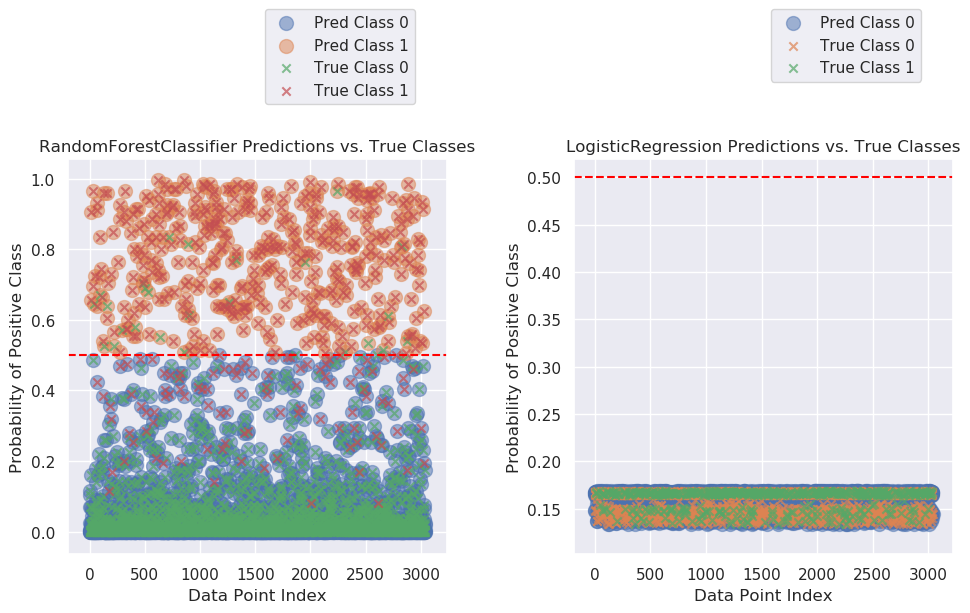
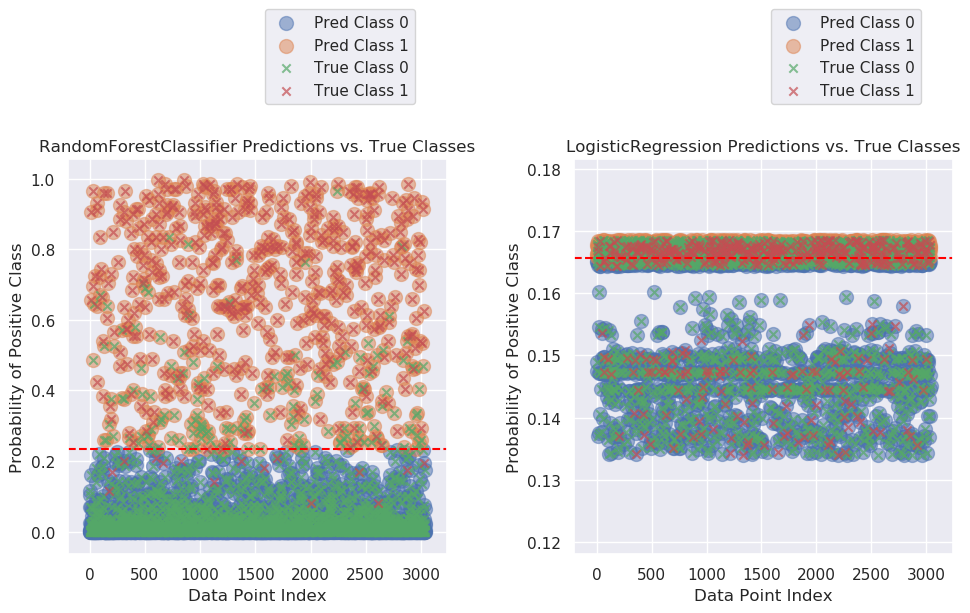
use the best threshold based on ROC analysis

diff --git a/proj1_cutomer_churn/churn_library_class.py b/proj1_cutomer_churn/churn_library_class.py
@@ -5,7 +5,7 @@ import argparse
 import logging
 import os
 import seaborn as sns
-from sklearn.metrics import plot_roc_curve, classification_report
+from sklearn.metrics import plot_roc_curve, roc_curve, classification_report
 from sklearn.model_selection import GridSearchCV
 from sklearn.ensemble import RandomForestClassifier
 from sklearn.linear_model import LogisticRegression
@@ -65,6 +65,7 @@ class ChurnLibrary:
         self.cv_rfc = None  # models to be trained later
         self.rfc_best = None  # the best estimator within cv_rfc
         self.lrc = None  # models to be trained later
+        self.best_threshold = []  # the best threshold for each class [0: rfc, 1: lrc]
 
     def perform_eda(self):
         """
@@ -164,14 +165,14 @@ class ChurnLibrary:
         ax.text(
             0.01, 0.05, str(
                 classification_report(
-                    self.y_test, y_test_pred, zero_division=1)), {
+                    self.y_test, y_test_pred, zero_division=0)), {
                 'fontsize': 10}, fontproperties='monospace')
         ax.text(0.01, 0.6, f'{model_name} Test', {
                 'fontsize': 10}, fontproperties='monospace')
         ax.text(
             0.01, 0.7, str(
                 classification_report(
-                    self.y_train, y_train_pred, zero_division=1)), {
+                    self.y_train, y_train_pred, zero_division=0)), {
                 'fontsize': 10}, fontproperties='monospace')
         ax.axis('off')  # Turn off axis
 
@@ -288,8 +289,14 @@ class ChurnLibrary:
         for i, model in enumerate(models):
             ax = axes[i] if num_models > 1 else axes  # Select subplot
 
-            # Make predictions on test data
-            y_pred = model.predict(self.X_test)
+            # Set your custom threshold
+            custom_threshold = self.best_threshold[i]  # Example threshold
+
+            # Get the predicted probabilities for the test set
+            probabilities = model.predict_proba(self.X_test)
+
+            # Get the predictions based on the custom threshold
+            y_pred = (probabilities[:, 1] >= custom_threshold).astype(int)
 
             # Plot scatter plot for each class based on predicted labels
             for label in range(num_classes):
@@ -306,7 +313,7 @@ class ChurnLibrary:
                                :, 1], marker='x', label=f'True Class {label}', alpha=0.7)
 
             # Add decision line based on threshold
-            ax.axhline(y=0.5, color='red', linestyle='--')
+            ax.axhline(y=custom_threshold, color='red', linestyle='--')
             ax.set_title(
                 f'{model.__class__.__name__} Predictions vs. True Classes')
             ax.set_xlabel('Data Point Index')
@@ -445,6 +452,22 @@ class ChurnLibrary:
             # save best model
             joblib.dump(self.rfc_best, './models/rfc_model.pkl')
             joblib.dump(self.lrc, './models/logistic_model.pkl')
+        
+        # get the best (most balanced) threshold based on ROC
+        y_test = self.y_test
+        for model in [self.rfc_best, self.lrc]:
+            # Get the true labels and predicted probabilities
+            probabilities = model.predict_proba(self.X_test)[:, 1]
+
+            # Calculate the ROC curve
+            fpr, tpr, thresholds = roc_curve(y_test, probabilities)
+
+            # Calculate Youden's J statistic for each threshold
+            j_scores = tpr - fpr
+
+            # Find the index of the best threshold
+            best_threshold_index = np.argmax(j_scores)
+            self.best_threshold.append(thresholds[best_threshold_index])
 
 
 def save_plot(fig, save_name):
@@ -585,7 +608,7 @@ if __name__ == '__main__':
 
     # 5. train two models, regression and randomforest
     try:
-        cl_object.train_models(False)
+        cl_object.train_models(True)
         logging.info("the models trained successfully!")
     except Exception as err:
         logging.error(
@@ -594,14 +617,21 @@ if __name__ == '__main__':
         raise err
 
     # 6. generate classification reports for both regression and randomforest models
-    # Generate predictions for logistic regression (0 or 1) with a threshold
-    # of 0.5
+    # Generate predictions for logistic regression (0 or 1) with best threshold
+    lrc_threshold = cl_object.best_threshold[0]  # Example threshold
+    prob_test_lrc = cl_object.lrc.predict_proba(cl_object.X_test)
+    
+    # Get the predictions based on the custom threshold
     y_train_preds_lr = cl_object.lrc.predict(cl_object.X_train)
-    y_test_preds_lr = cl_object.lrc.predict(cl_object.X_test)
+    y_test_preds_lr = (prob_test_lrc[:, 1] >= lrc_threshold).astype(int)
 
-    # Generate predictions for random forest (0 or 1) with a threshold of 0.5
+    # Generate predictions for random forest (0 or 1) with best threshold
+    rfc_threshold = cl_object.best_threshold[1]  # Example threshold
+    prob_test_rfc = cl_object.rfc_best.predict_proba(cl_object.X_test)
+    
+    # Get the predictions based on the custom threshold
     y_train_preds_rf = cl_object.rfc_best.predict(cl_object.X_train)
-    y_test_preds_rf = cl_object.rfc_best.predict(cl_object.X_test)
+    y_test_preds_rf = (prob_test_rfc[:, 1] >= rfc_threshold).astype(int)
 
     try:
         cl_object.classification_report_image(
